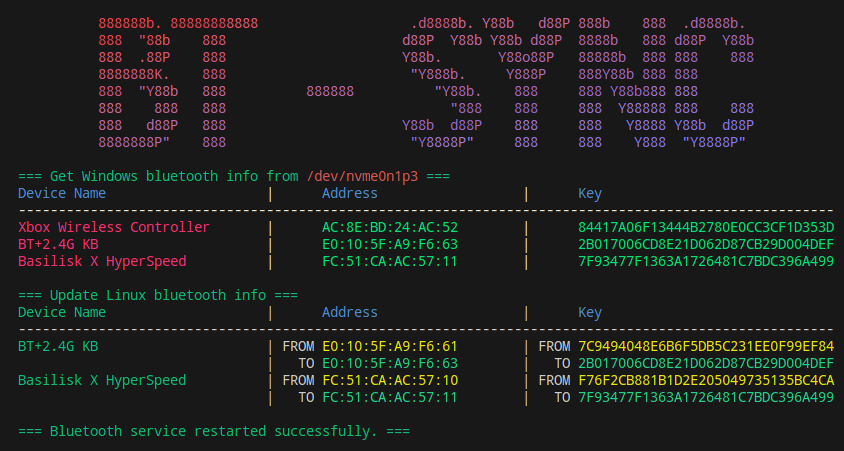
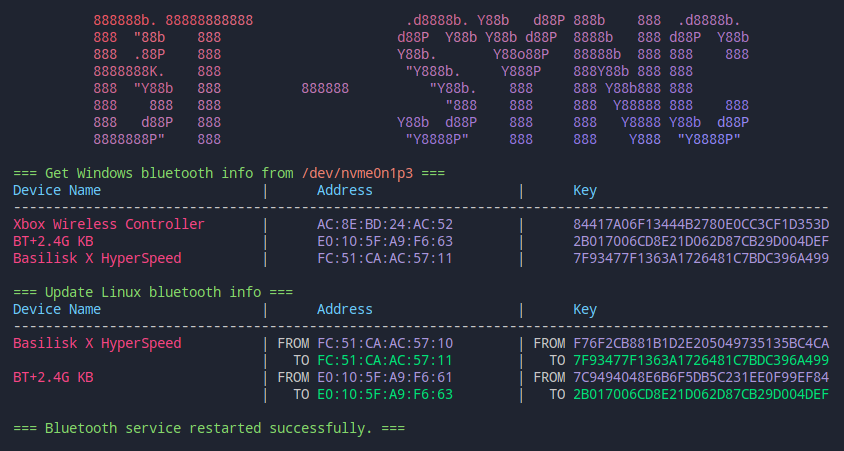
update

diff --git a/src/bluetooth.rs b/src/bluetooth.rs
@@ -1,7 +1,6 @@
 use std::{collections::HashMap, fs, path::{Path, PathBuf}, process::Command};
 
 use anyhow::Result;
-use colored::*;
 use regex::Regex;
 use term_ansi::*;
 
@@ -152,23 +151,23 @@ fn update_device_info(
 }
 
 fn print_update_results(result_map: &HashMap<String, (String, String, String, String)>) {
-    println!("{}", "\n=== Update Linux bluetooth info ===".green());
+    println!("{}", green!("\n=== Update Linux bluetooth info ==="));
 
     println!("{} |      {} |      {}", 
-             format!("{:<30}", "Device Name".green()),
-             format!("{:<24}", "Address".blue()),
-             format!("{:<40}", "Key".blue()));
+        blue!("{:<30}", "Device Name"),
+        blue!("{:<24}", "Address"),
+        blue!("{:<40}", "Key"));
     println!("{}", "-".repeat(102));
     
     for (name, (old_mac, new_mac, old_ltk, new_ltk)) in result_map {
-        let name_colored = format!("{:<30}", name.green());
-        let old_mac_colored = format!("{:<24}", old_mac.yellow());
-        let old_ltk_colored = format!("{:<40}", old_ltk.yellow());
+        let name_colored = rgb!(0xf0, 0x00, 0x56, "{:<30}", name);
+        let old_mac_colored = rgb!(0xaa, 0x96, 0xda, "{:<24}", old_mac);
+        let old_ltk_colored = rgb!(0xaa, 0x96, 0xda, "{:<40}", old_ltk);
         println!("{} | FROM {} | FROM {}", name_colored, old_mac_colored, old_ltk_colored);
 
-        let space_colored = format!("{:<30}", " ".green());
-        let new_mac_colored = format!("{:<24}", new_mac.bright_green());
-        let new_ltk_colored = format!("{:<40}", new_ltk.bright_green());
+        let space_colored = rgb!(0xf0, 0x00, 0x56, "{:<30}", " ");
+        let new_mac_colored = rgb!(0x00, 0xe0, 0x79, "{:<24}", new_mac);
+        let new_ltk_colored = rgb!(0x00, 0xe0, 0x79, "{:<40}", new_ltk);
         println!("{} |   TO {} |   TO {}", space_colored, new_mac_colored, new_ltk_colored);
     }
 }

diff --git a/src/hive.rs b/src/hive.rs
@@ -89,7 +89,10 @@ pub fn parse_reg(device: &str, mountpoint: &str) -> Result<HashMap<String, BtDev
     println!("{} |      {} |      {}", blue!("{:<30}", "Device Name"), blue!("{:<24}", "Address"), blue!("{:<40} ", "Key"));
     println!("{}", "-".repeat(102));
     for (name, info) in &bt_device_info {
-        println!("{} |      {} |      {}", rgb!(0xf0, 0x00, 0x56, "{:<30}", name), rgb!(0x00, 0xe0, 0x79, "{:<24}", info.mac), rgb!(0x00, 0xe0, 0x79, "{:<40}", info.ltk));
+        println!("{} |      {} |      {}", 
+            rgb!(0xf0, 0x00, 0x56, "{:<30}", name), 
+            rgb!(0xaa, 0x96, 0xda, "{:<24}", info.mac), 
+            rgb!(0xaa, 0x96, 0xda, "{:<40}", info.ltk));
     }
 
     Ok(bt_device_info)

diff --git a/src/main.rs b/src/main.rs
@@ -1,6 +1,6 @@
-use bluetooth::process_bluetooth_devices;
 use bt_sync::*;
-use utils::{is_root, print_colored_ascii, restart_with_sudo};
+use bluetooth::*;
+use utils::*;
 use std::process;
 
 fn main() {
